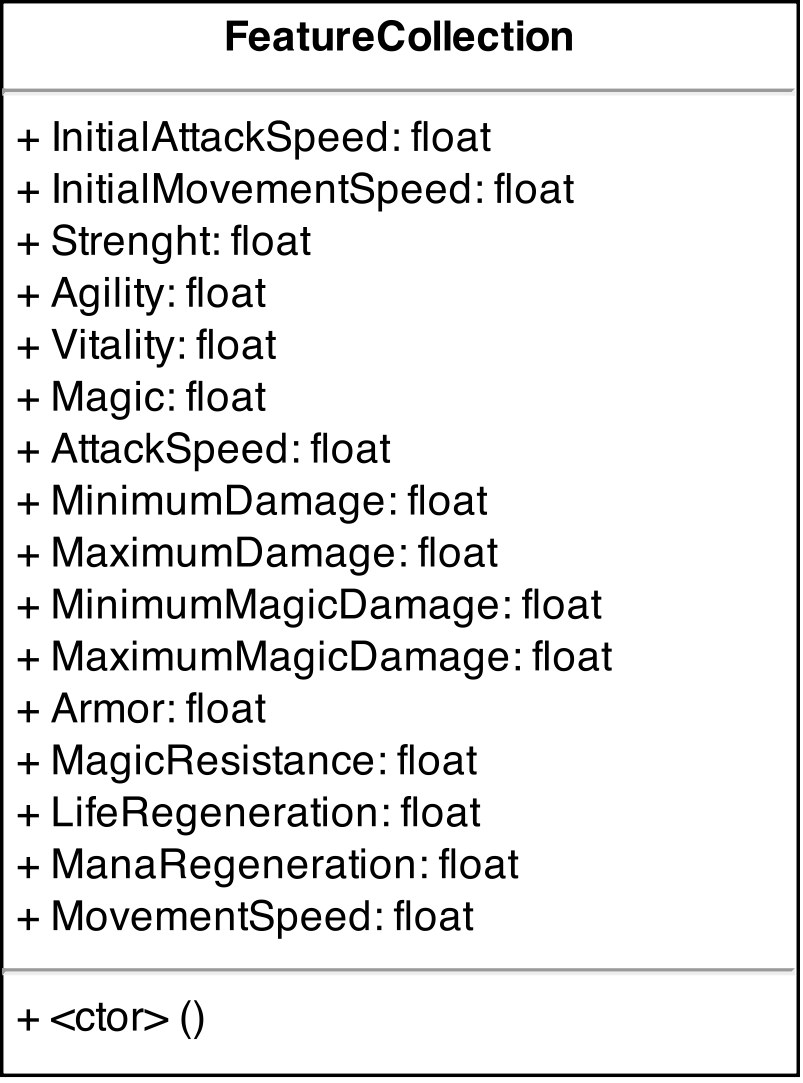
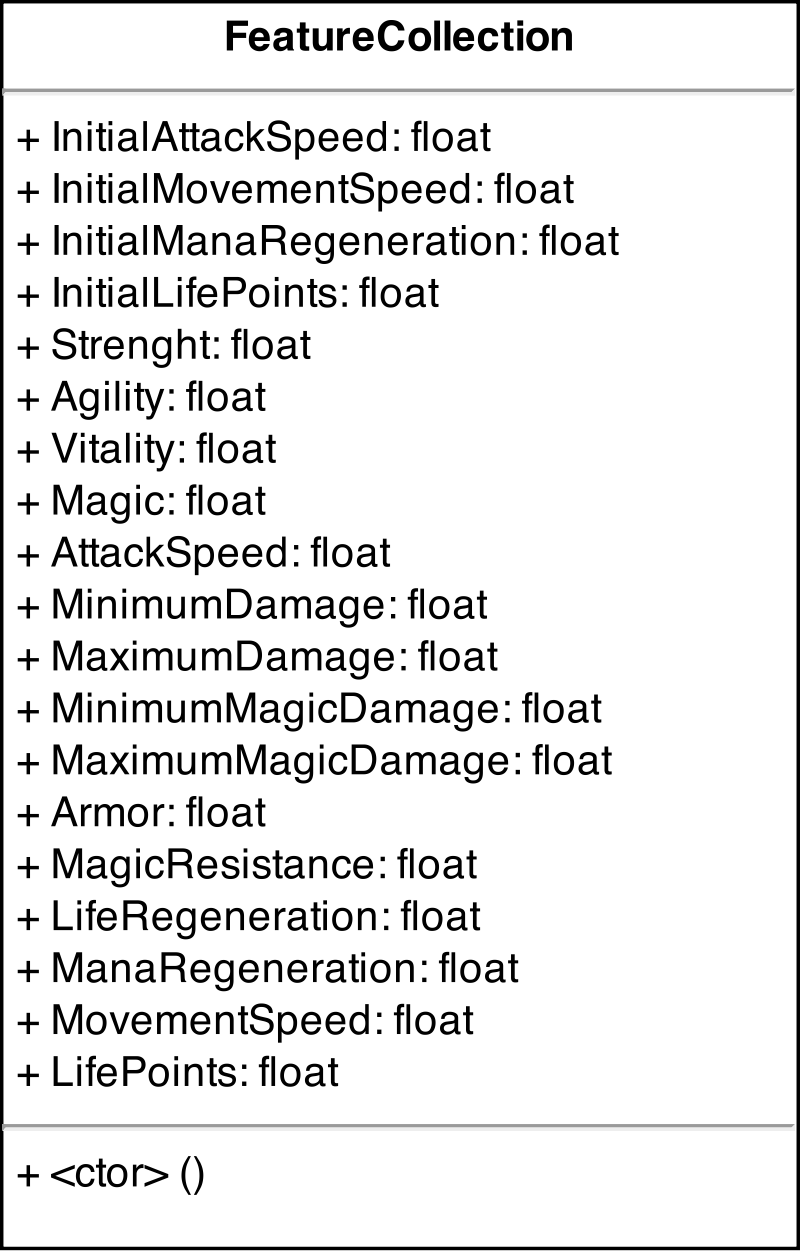
Added life points in the feature collection

Changed region(s): [[0.0, 0.0, 0.9963, 0.8837], [0.0, 0.9141, 0.9963, 1.0], [0.6849, 0.6094, 0.7472, 0.6399]]

diff --git a/src/HelProject/Features/FeatureCollection.cs b/src/HelProject/Features/FeatureCollection.cs
@@ -17,6 +17,7 @@ namespace HelProject.Features
         private float _initialAttackSpeed;
         private float _initialMovementSpeed;
         private float _initialManaRegeneration;
+        private float _initialLifePoints;
         private float _strenght;
         private float _agility;
         private float _vitality;
@@ -31,6 +32,16 @@ namespace HelProject.Features
         private float _lifeRegeneration;
         private float _manaRegeneration;
         private float _movementSpeed;
+        private float _lifePoints;
+
+        /// <summary>
+        /// Imposed life points
+        /// </summary>
+        public float InitialLifePoints
+        {
+            get { return _initialLifePoints; }
+            set { _initialLifePoints = value; }
+        }
 
         /// <summary>
         /// Imposed attack speed (attacks per second)
@@ -188,6 +199,15 @@ namespace HelProject.Features
         }
 
         /// <summary>
+        /// Life points
+        /// </summary>
+        public float LifePoints
+        {
+            get { return _lifePoints; }
+            set { _lifePoints = value; }
+        }
+
+        /// <summary>
         /// Creates a feature collection
         /// </summary>
         public FeatureCollection()
@@ -197,6 +217,7 @@ namespace HelProject.Features
             this._attackSpeed = .0f;
             this._initialAttackSpeed = .0f;
             this._initialMovementSpeed = .0f;
+            this._initialManaRegeneration = .0f;
             this._lifeRegeneration = .0f;
             this._magic = .0f;
             this._magicResistance = .0f;
@@ -208,6 +229,8 @@ namespace HelProject.Features
             this._movementSpeed = .0f;
             this._strenght = .0f;
             this._vitality = .0f;
+            this._initialLifePoints = .0f;
+            this._lifePoints = .0f;
         }
     }
 }

diff --git a/src/HelProject/Features/FeatureManager.cs b/src/HelProject/Features/FeatureManager.cs
@@ -92,6 +92,7 @@ namespace HelProject.Features
                 MinimumDamage = this.GetTotalMinimumDamage(),
                 MinimumMagicDamage = this.GetTotalMinimumMagicDamage(),
                 InitialMovementSpeed = this.GetTotalMovementSpeed(),
+                LifePoints = this.GetTotalLifePoints(),
             };
         }
 
@@ -415,7 +416,21 @@ namespace HelProject.Features
         /// <returns>Total LifePoints</returns>
         public float GetTotalLifePoints()
         {
-            return this.GetTotalVitality() * LIFE_PER_VITALITY;
+            float iniLifePoints = this.InitialFeatures.InitialLifePoints;
+
+            for (int i = 0; i < this.ActiveSpells.Count; i++)
+            {
+                if (iniLifePoints < this.ActiveSpells[i].Features.InitialLifePoints)
+                    iniLifePoints = this.ActiveSpells[i].Features.InitialLifePoints;
+            }
+
+            for (int i = 0; i < this.ActiveItems.Count; i++)
+            {
+                if (iniLifePoints < this.ActiveItems[i].Features.InitialLifePoints)
+                    iniLifePoints = this.ActiveItems[i].Features.InitialLifePoints;
+            }
+
+            return this.GetTotalVitality() * LIFE_PER_VITALITY + iniLifePoints;
         }
     }
 }
